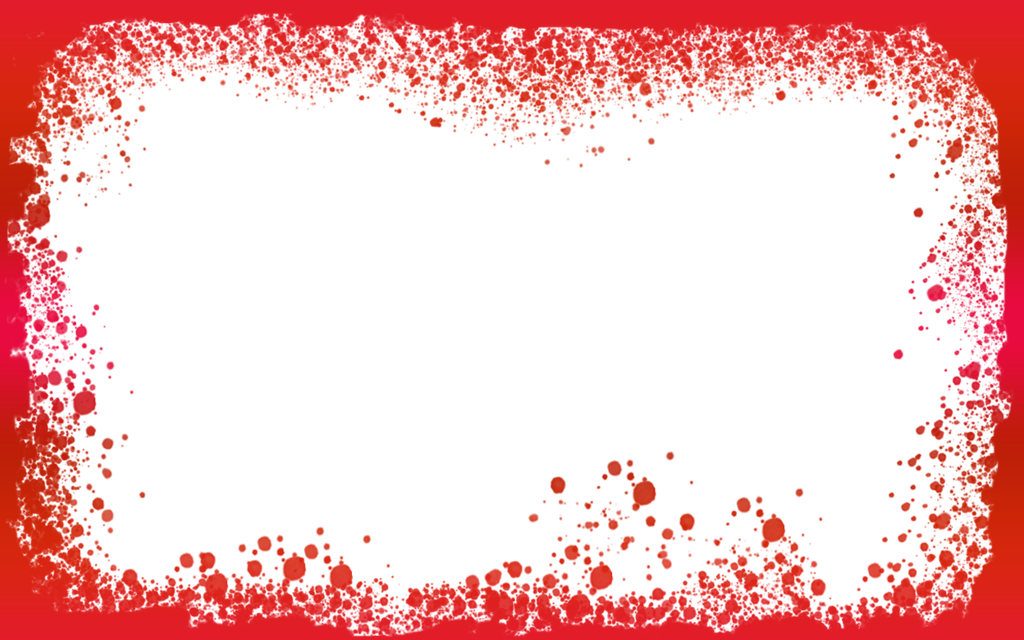
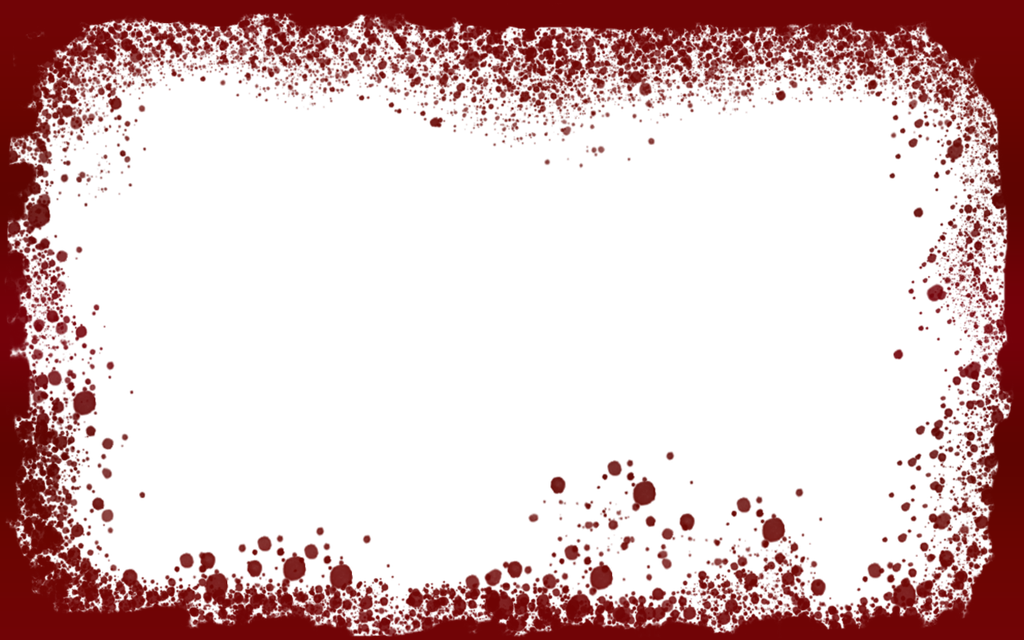
Zombies: darker blood hurt overlay
Claude-Session: https://claude.ai/code/session_01BExUHvGCiPywXouvTck3Qt

diff --git a/zombies/index.html b/zombies/index.html
@@ -61,7 +61,7 @@ body.touch #nades{display:none}
 #pus i.blink{animation:blink .4s infinite}
 @keyframes blink{50%{opacity:.25}}
 #low{position:absolute;left:50%;top:calc(50% + 36px);transform:translateX(-50%);font-size:16px;font-weight:600;color:#ffd84a;text-shadow:0 1px 3px #000;letter-spacing:.1em}
-#dmg{position:absolute;inset:0;background:url(assets/fx/blood_overlay.png) center/100% 100% no-repeat,radial-gradient(ellipse at center,transparent 45%,rgba(120,0,0,.7) 100%);mix-blend-mode:multiply;opacity:0}
+#dmg{position:absolute;inset:0;background:url(assets/fx/blood_overlay.png) center/100% 100% no-repeat,radial-gradient(ellipse at center,transparent 45%,rgba(120,0,0,.7) 100%);opacity:0}
 #downV{position:absolute;inset:0;background:rgba(60,0,0,.55);backdrop-filter:grayscale(1);opacity:0;transition:opacity .4s}
 #scope{position:absolute;inset:0;display:none;background:radial-gradient(circle at center,transparent 0,transparent 31vmin,#000 31.4vmin)}
 #scope:before,#scope:after{content:"";position:absolute;background:#000;left:50%;top:50%}
@@ -1875,7 +1875,7 @@ function update(dt){
   if(boomT > 0){ boomT -= dt; boomLight.intensity = Math.max(0, boomT / .25 * 30); }
   // ----- health regen -----
   if(!P.down && now - P.hurtT > 3 && P.hp < maxHp()) P.hp = Math.min(maxHp(), P.hp + dt * 60);
-  const hk = 1 - P.hp / maxHp(); $('#dmg').style.opacity = P.down ? 0 : clamp(hk * 1.2 + (now - P.hurtT < .3 ? .4 : 0), 0, 1);
+  const hk = 1 - P.hp / maxHp(); $('#dmg').style.opacity = P.down ? 0 : clamp(hk * .9 + (now - P.hurtT < .3 ? .3 : 0), 0, .85);
   if(P.hp < maxHp() * .4 && !P.down){ heartT -= dt; if(heartT <= 0){ SND.heart(); heartT = 1; } }
   // ----- interaction -----
   curInter = P.down ? null : findInter();
